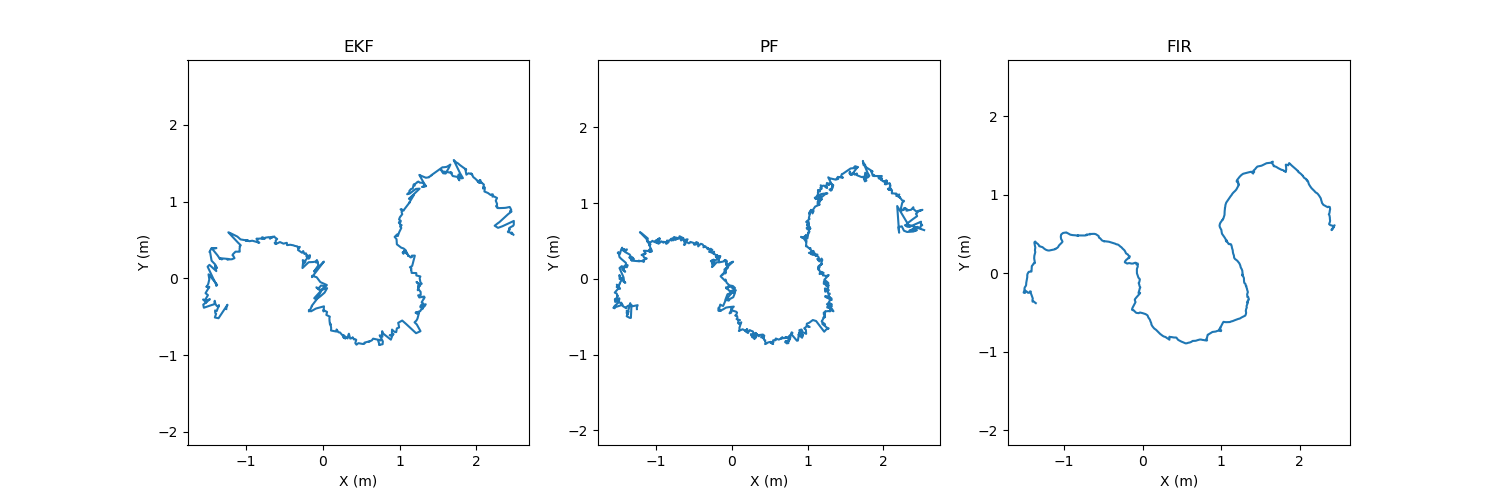
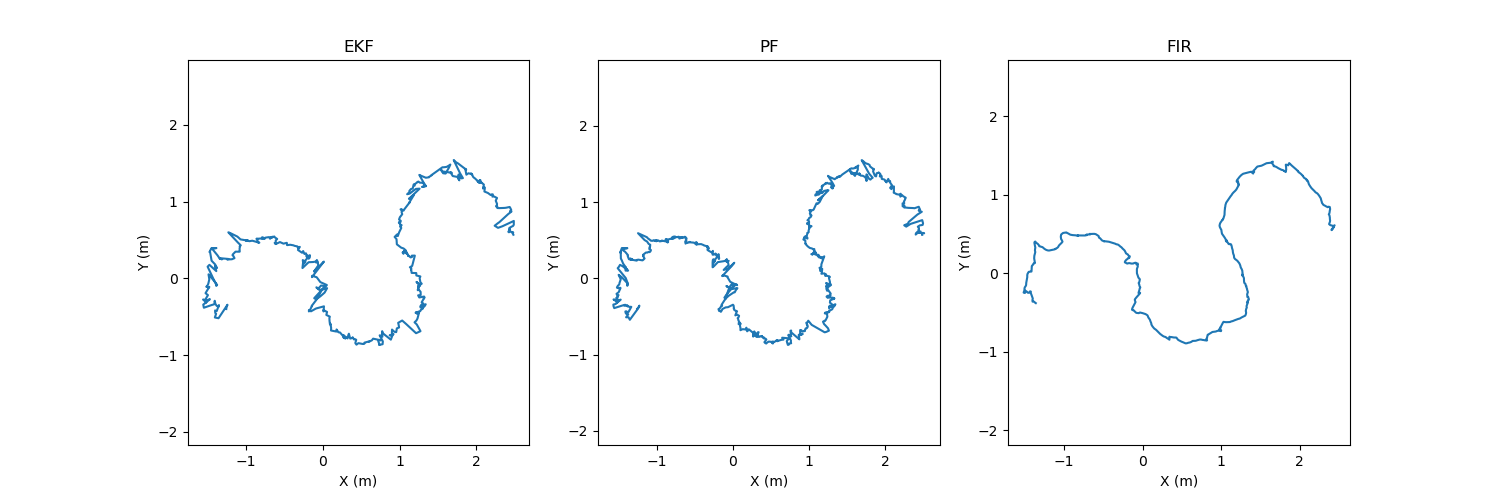
Bug fix in PF and revise figures

diff --git a/modules/estimator.py b/modules/estimator.py
@@ -125,13 +125,12 @@ class PF_Gaussian:
         for i in range(self.num_particle):
             args = np.concatenate((self.particle[i], self.u))
             self.z_hat_particle[i] = self.h_func(*args)[0]
-        noise_output = np.random.multivariate_normal(np.zeros(self.dim_z), self.R, self.num_particle)
-        self.z_hat_particle += noise_output
 
     def evaluate_weight(self):
         for i in range(self.num_particle):
             error = self.z - self.z_hat_particle[i]
-            self.weight[i] = 1.0 / ((2.0 * np.pi) ** (self.dim_z / 2.0) * np.linalg.det(self.R) ** 0.5) * np.exp(
+            self.weight[i] = self.weight[i] * 1.0 / (
+                        (2.0 * np.pi) ** (self.dim_z / 2.0) * np.linalg.det(self.R) ** 0.5) * np.exp(
                 -np.transpose(error) @ np.linalg.inv(self.R) @ error / 2.0)
         sum_weight = np.sum(self.weight)
         self.weight /= sum_weight

diff --git a/03_3D_Localization.py b/03_3D_Localization.py
@@ -35,10 +35,10 @@ x_init = np.array([5.5, 3.5, 1.0, 0.0, 0.0, 0.0])
 z_init = msr_data[0]
 u_init = sampling_time[0]
 P = np.zeros((6, 6))
-Q = np.diag([0.5, 0.5, 0.5, 1.0, 1.0, 1.0])
-R = np.diag([0.1, 0.1, 0.1, 0.1])
+Q = np.diag([0.3, 0.3, 0.3, 1.0, 1.0, 1.0])
+R = np.diag([0.2, 0.2, 0.2, 0.2])
 Est1 = estimator.EKF(f, h, state_set, input_set, P, Q, R, x_init)
-Est2 = estimator.PF_Gaussian(f, h, state_set, input_set, 500, P, Q, R, x_init)
+Est2 = estimator.PF_Gaussian(f, h, state_set, input_set, 1000, P, Q, R, x_init)
 Est3 = estimator.FIR(f, h, state_set, input_set, 20, x_init, z_init, u_init)
 
 # Simulation
